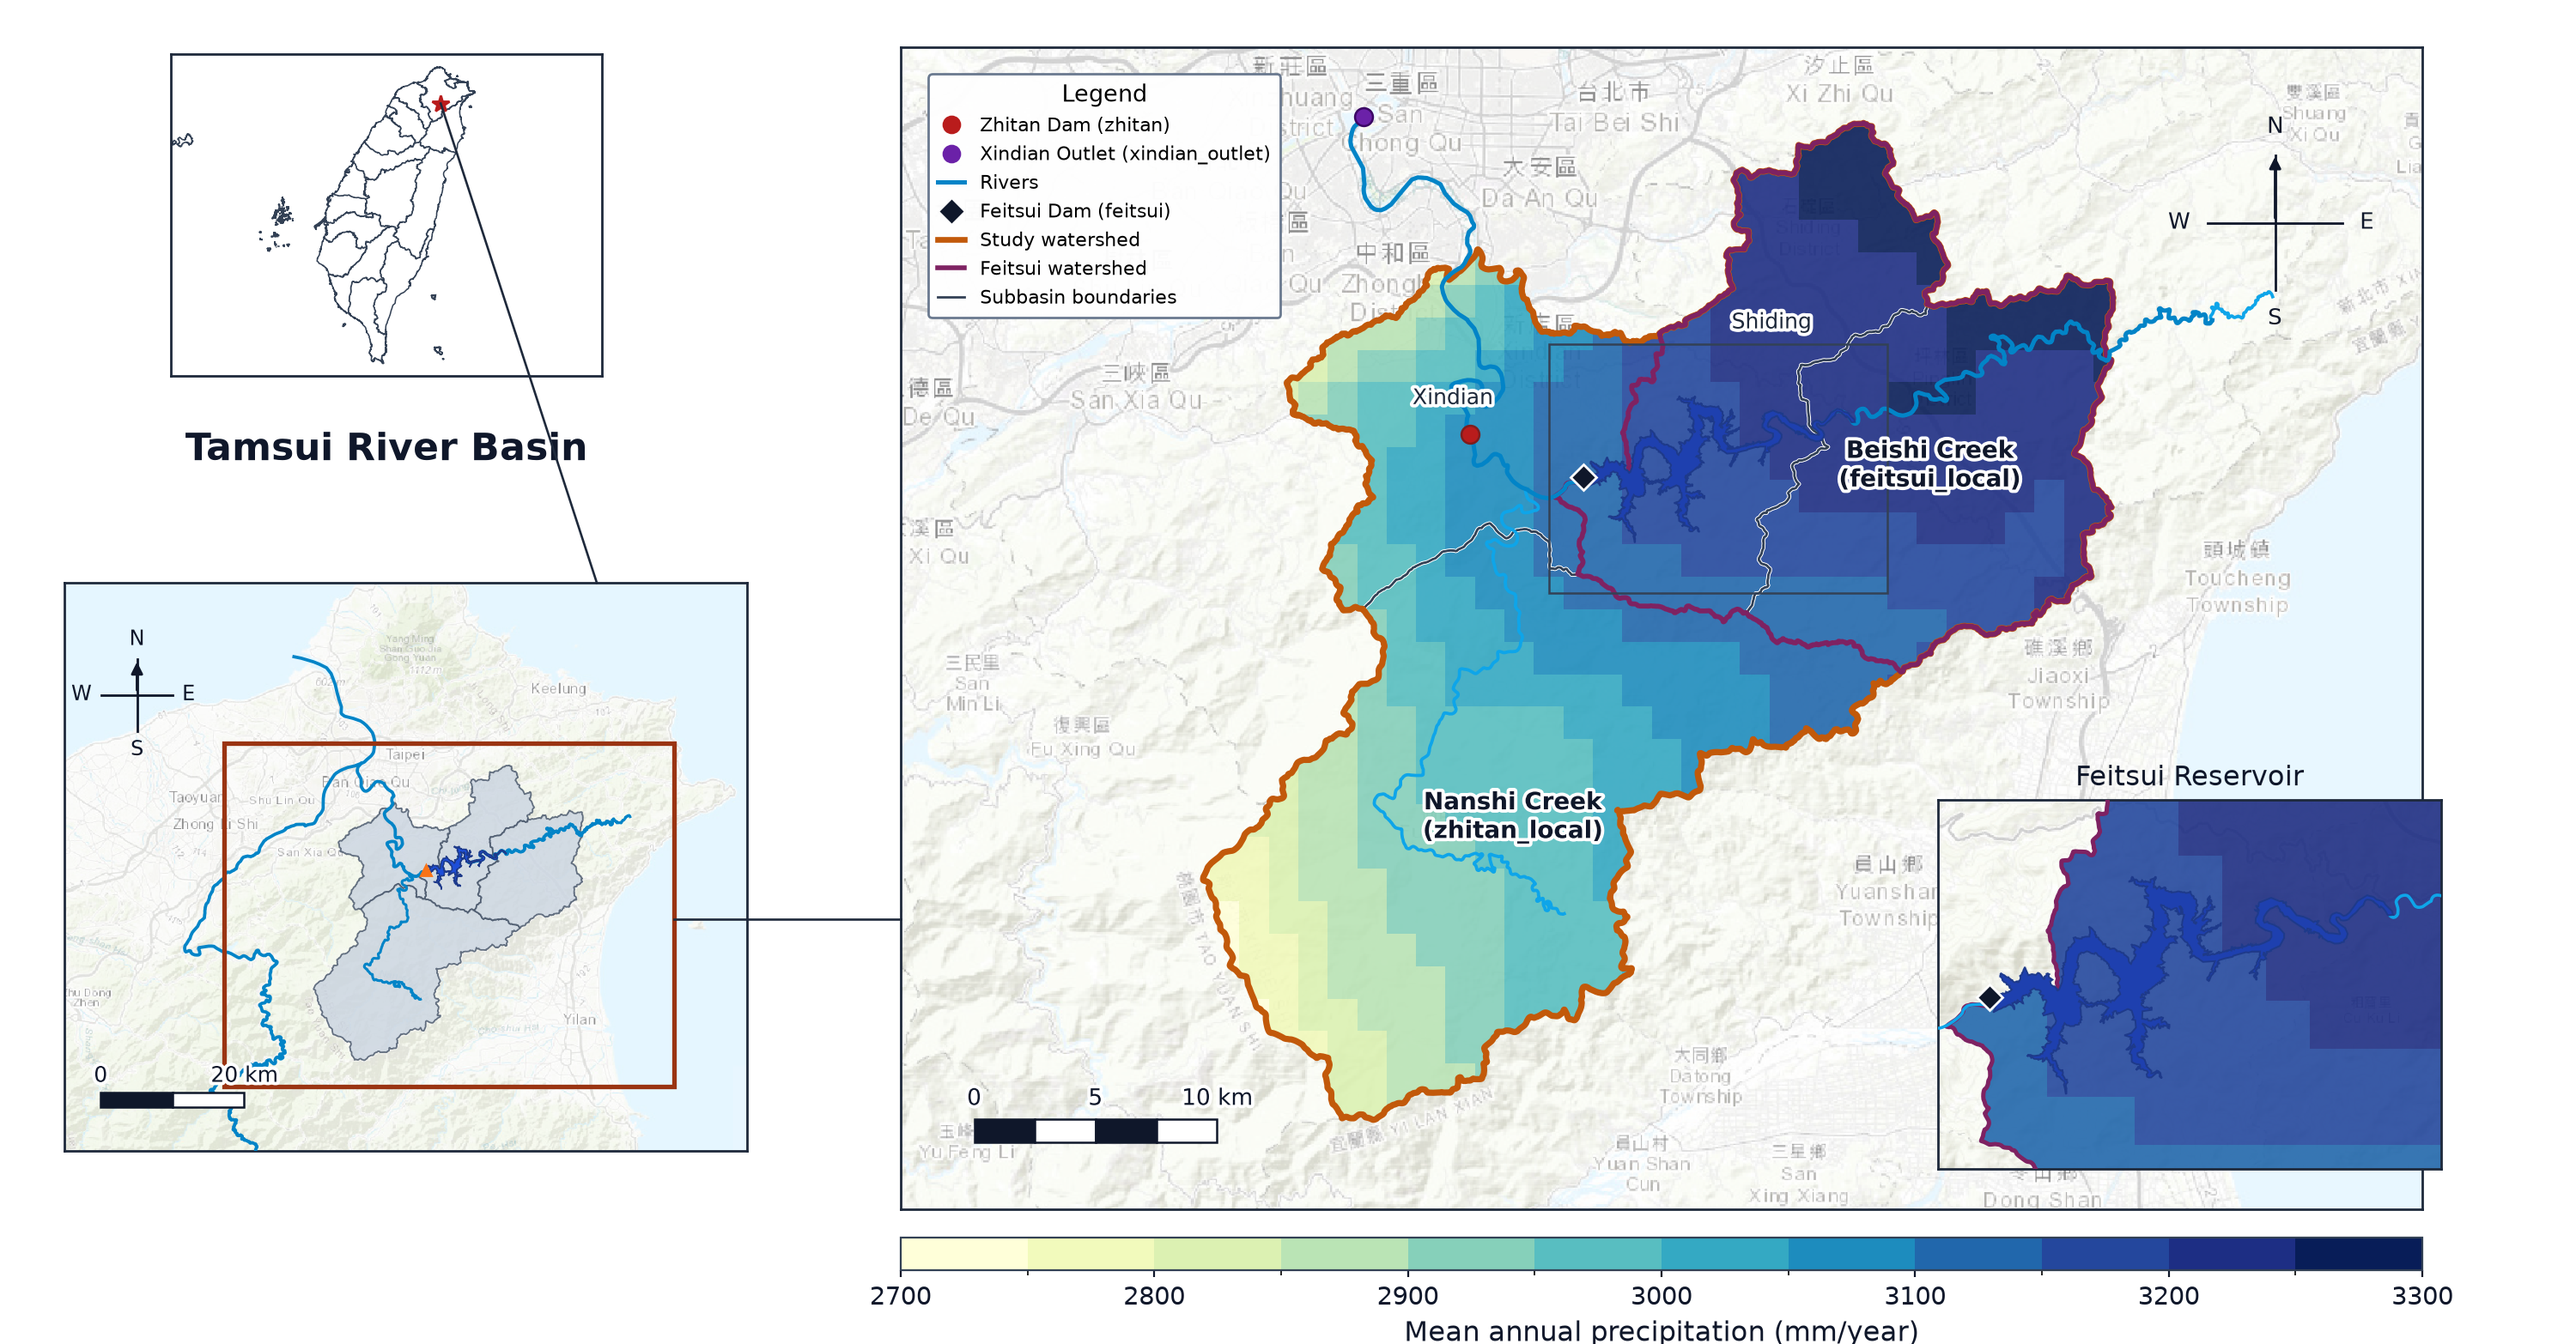
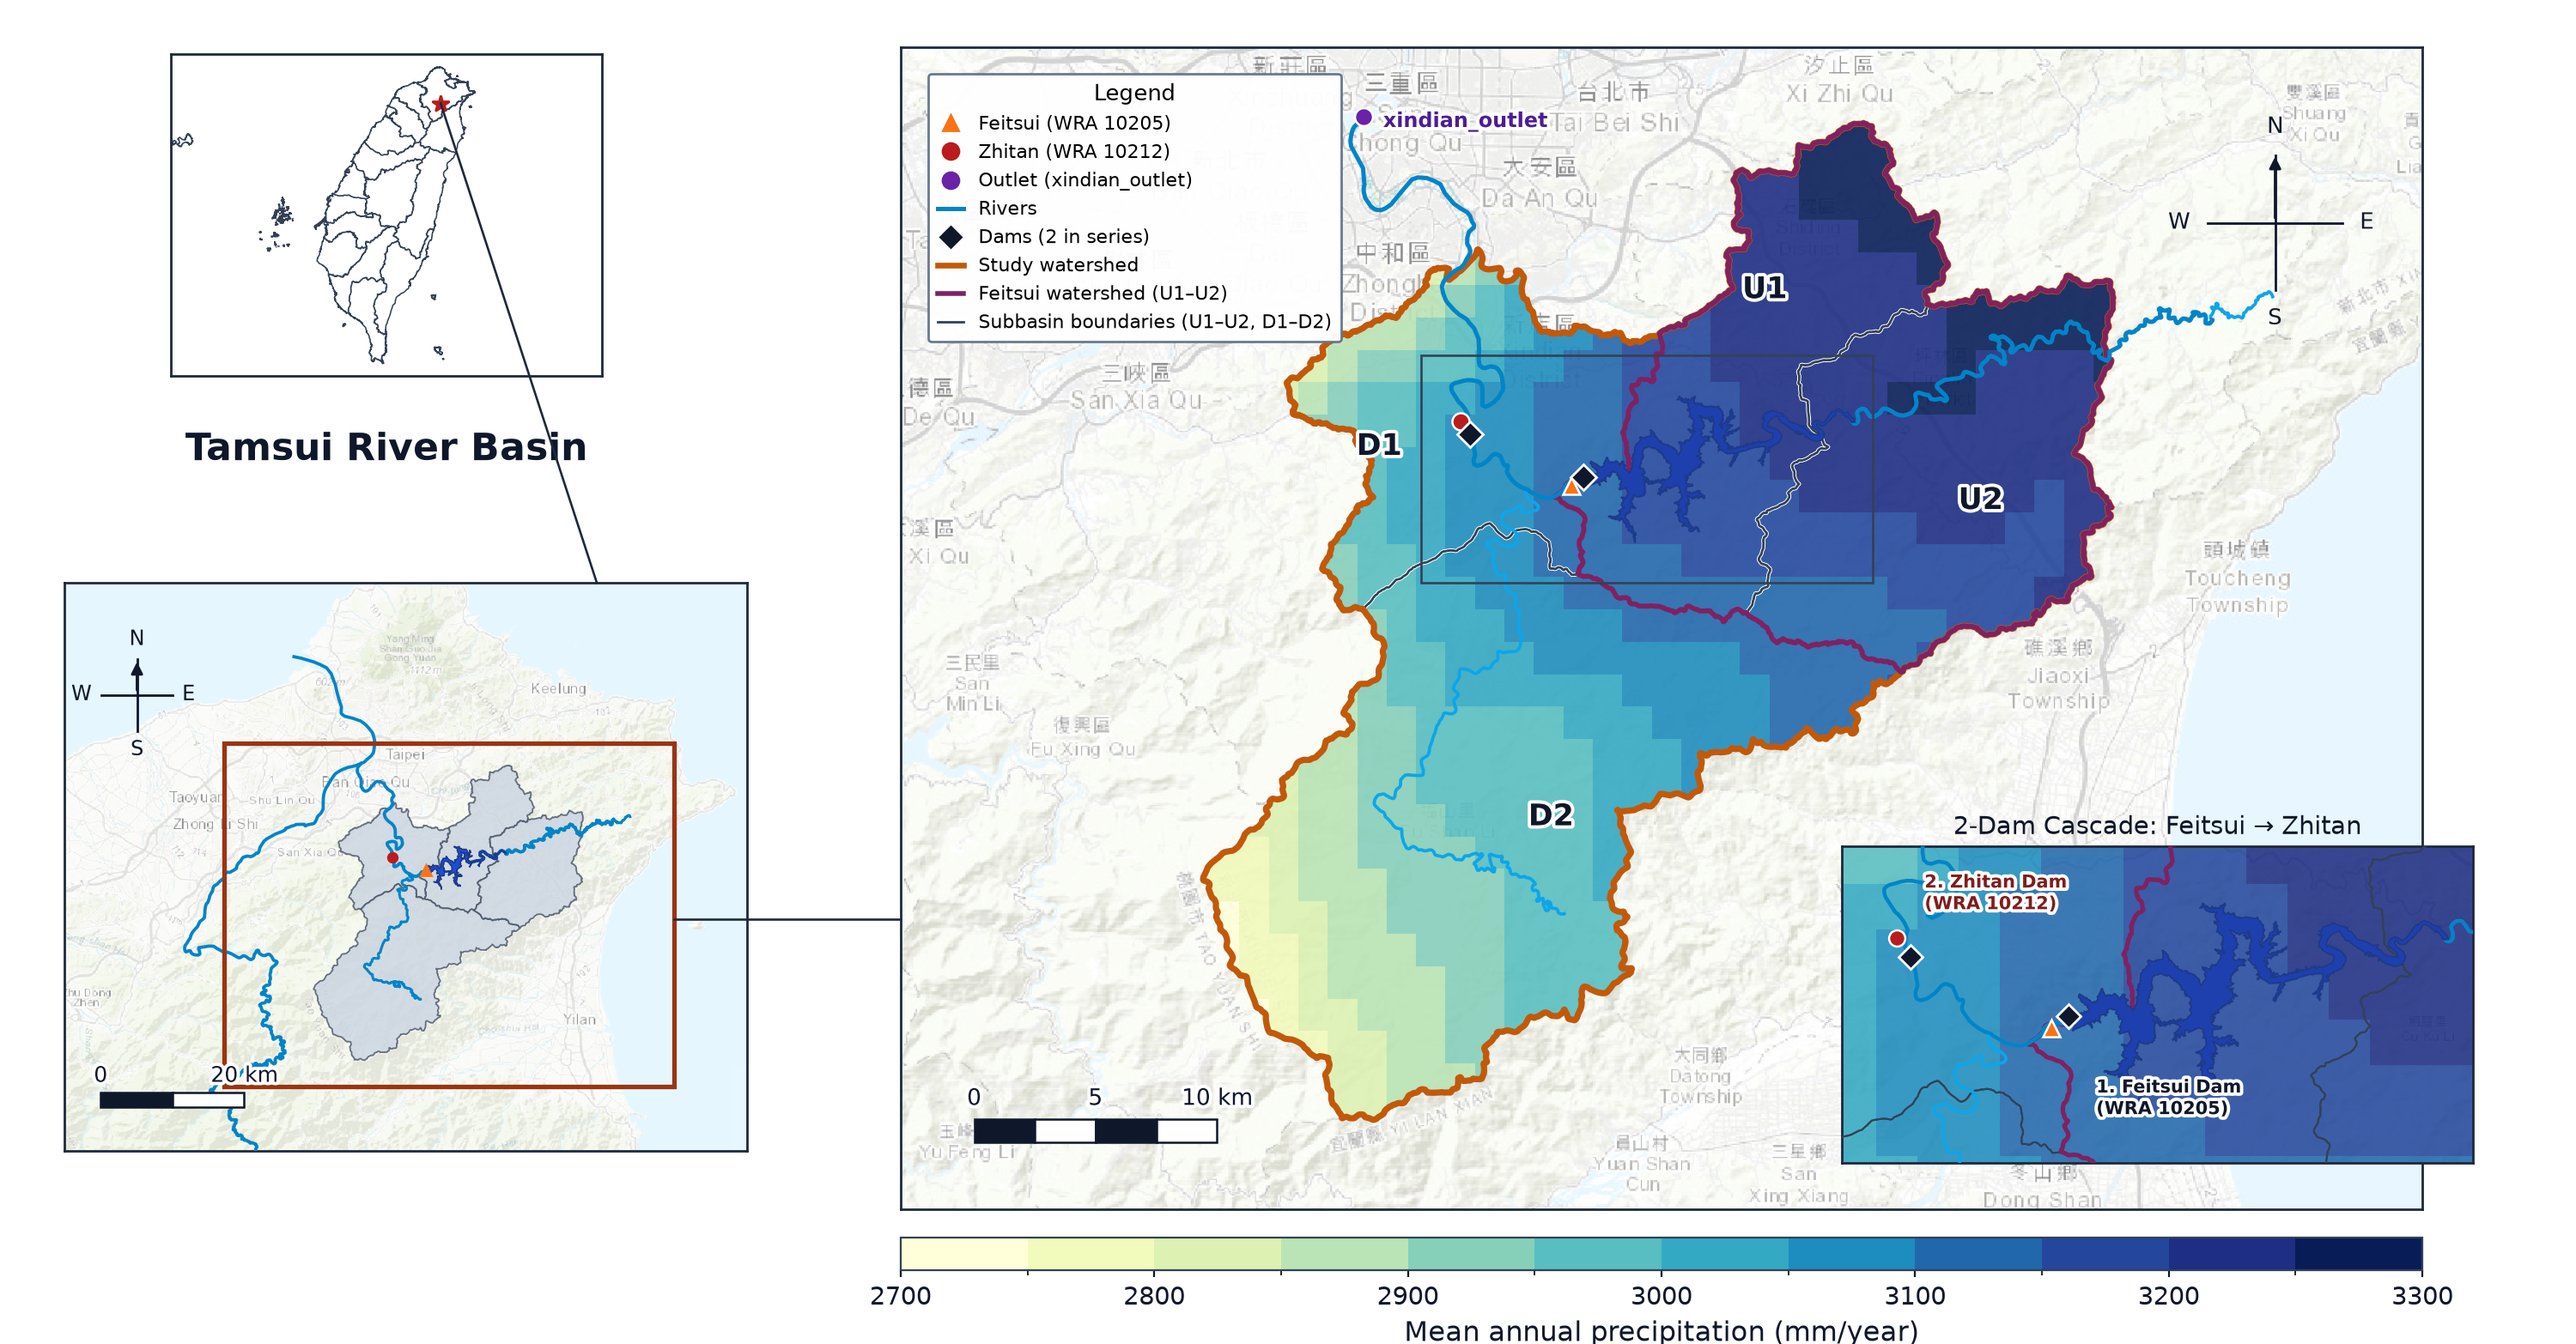
Add U1-U2/D1-D2 subbasins, WRA gauges, and 2-dam cascade inset to fig5 (#111)

diff --git a/examples/multi_reservoir/README.md b/examples/multi_reservoir/README.md
@@ -9,8 +9,8 @@ This multi-reservoir case study models Taiwan's **Xindian River cascade** — **
 ## Study area and benchmark design
 
 <figure class="figure-card">
-  <img src="../../docs/assets/figures/fig5-xindian-study-area.png" alt="Xindian River cascade study area showing mean annual precipitation, Feitsui Reservoir, Nanshi Creek lateral inflow, Zhitan Dam, and xindian_outlet">
-  <figcaption><strong>Figure 5.</strong> Xindian River cascade study area and mean annual precipitation (WorldClim 2.1): Feitsui Reservoir (<code>335,505,000 m3</code> capacity; <code>[0, 500] m3/s</code> controlled release) routes through a <code>[0.8, 0.2]</code> unit-hydrograph lag, combines with Nanshi Creek lateral runoff (<code>zhitan_local</code>), and feeds Zhitan Dam (<code>1,918,900 m3</code>; <code>[0, 800] m3/s</code>) before routing through <code>[1.0]</code> to <code>xindian_outlet</code>.</figcaption>
+  <img src="../../docs/assets/figures/fig5-xindian-study-area.png" alt="Xindian River 2-reservoir cascade study area showing subbasins U1-U2 and D1-D2, WRA gauges 10205 and 10212, Feitsui Dam, Zhitan Dam, and xindian_outlet">
+  <figcaption><strong>Figure 5.</strong> Xindian River <strong>2-reservoir series cascade</strong>, subbasins (<code>U1–U2</code> feeding <code>feitsui_local</code>; <code>D1–D2</code> contributing <code>zhitan_local</code>), WRA gauges (<code>10205</code>, <code>10212</code>), and mean annual precipitation (WorldClim 2.1): <strong>1. Feitsui Reservoir</strong> (<code>335,505,000 m3</code>; <code>[0, 500] m3/s</code>) routes through a <code>[0.8, 0.2]</code> lag into <strong>2. Zhitan Dam</strong> (<code>1,918,900 m3</code>; <code>[0, 800] m3/s</code>) before discharging to <code>xindian_outlet</code>.</figcaption>
 </figure>
 
 <div class="panel-grid panel-grid-2" markdown="1">

diff --git a/examples/multi_reservoir/README.zh-TW.md b/examples/multi_reservoir/README.zh-TW.md
@@ -9,8 +9,8 @@
 ## 研究區域與基準設計
 
 <figure class="figure-card">
-  <img src="../../docs/assets/figures/fig5-xindian-study-area.png" alt="新店溪串聯水庫研究區域、年均降雨分布與河道演算網路圖：翡翠水庫、南勢溪側向入流與直潭壩">
-  <figcaption><strong>圖 5.</strong> 台灣新店溪串聯水庫研究流域與年均降雨分布（WorldClim 2.1）：翡翠水庫（有效庫容 335,505,000 m³，放流上下限 0–500 m³/s）出流經 <code>[0.8, 0.2]</code> 單位歷線演算並匯入南勢溪側向入流（<code>zhitan_local</code>）後進入直潭壩（有效庫容 1,918,900 m³，放流上下限 0–800 m³/s），再經 <code>[1.0]</code> 演算至 <code>xindian_outlet</code>。</figcaption>
+  <img src="../../docs/assets/figures/fig5-xindian-study-area.png" alt="新店溪雙水庫串聯研究區域：子集水區 U1–U2 與 D1–D2、水利署測站 10205 與 10212、翡翠水庫與直潭壩位置圖">
+  <figcaption><strong>圖 5.</strong> 台灣新店溪<strong>雙水庫串聯系統（2 座水庫串聯）</strong>、子集水區（<code>U1–U2</code> 匯入 <code>feitsui_local</code>、<code>D1–D2</code> 匯入 <code>zhitan_local</code>）、水利署測站（<code>10205</code>、<code>10212</code>）與年均降雨分布（WorldClim 2.1）：<strong>1. 翡翠水庫</strong>（<code>335,505,000 m³</code>，<code>0–500 m³/s</code>）經 <code>[0.8, 0.2]</code> 演算銜接 <strong>2. 直潭壩</strong>（<code>1,918,900 m³</code>，<code>0–800 m³/s</code>），再經 <code>[1.0]</code> 流至 <code>xindian_outlet</code>。</figcaption>
 </figure>
 
 <div class="panel-grid panel-grid-2" markdown="1">
